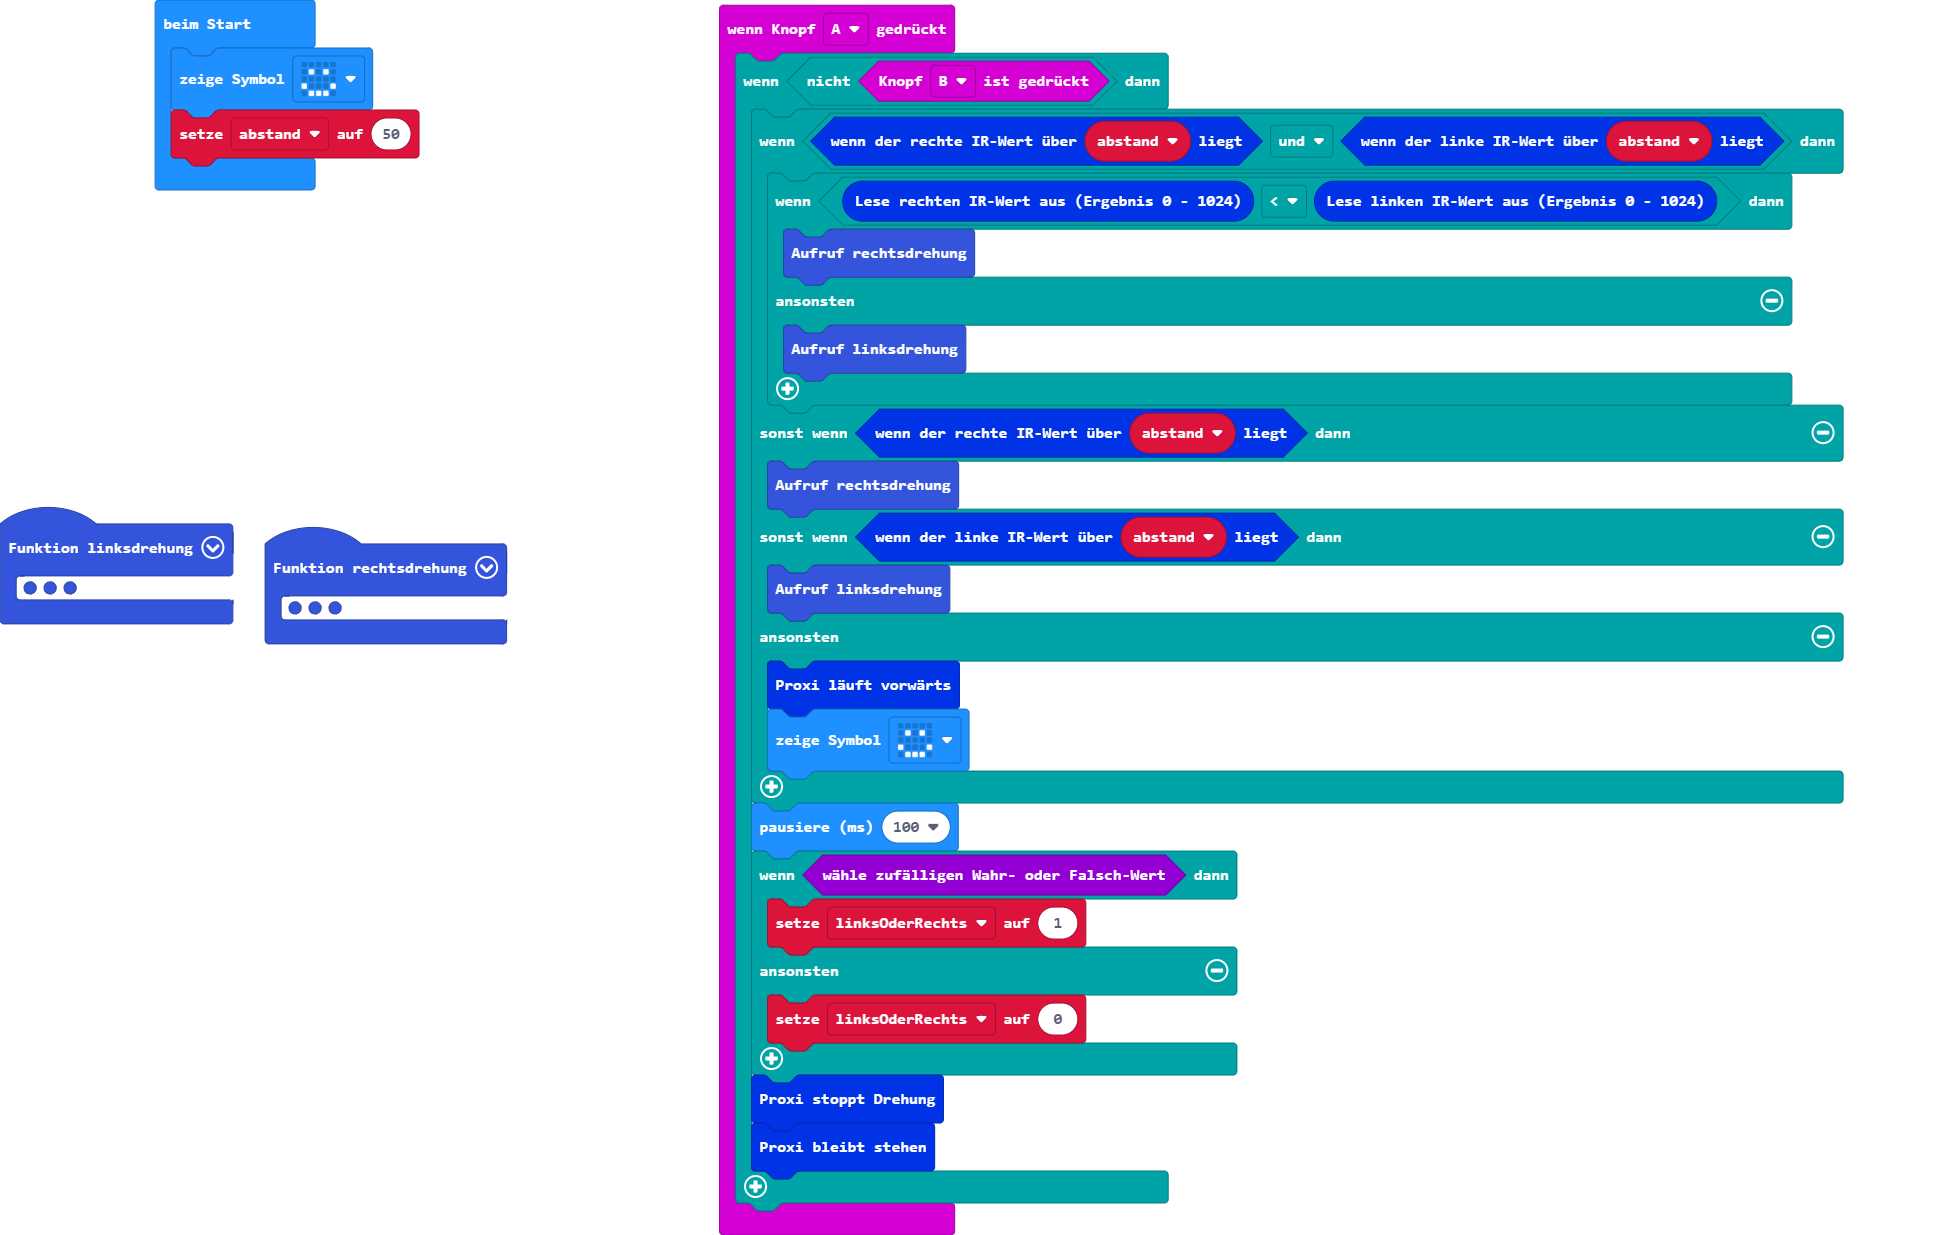
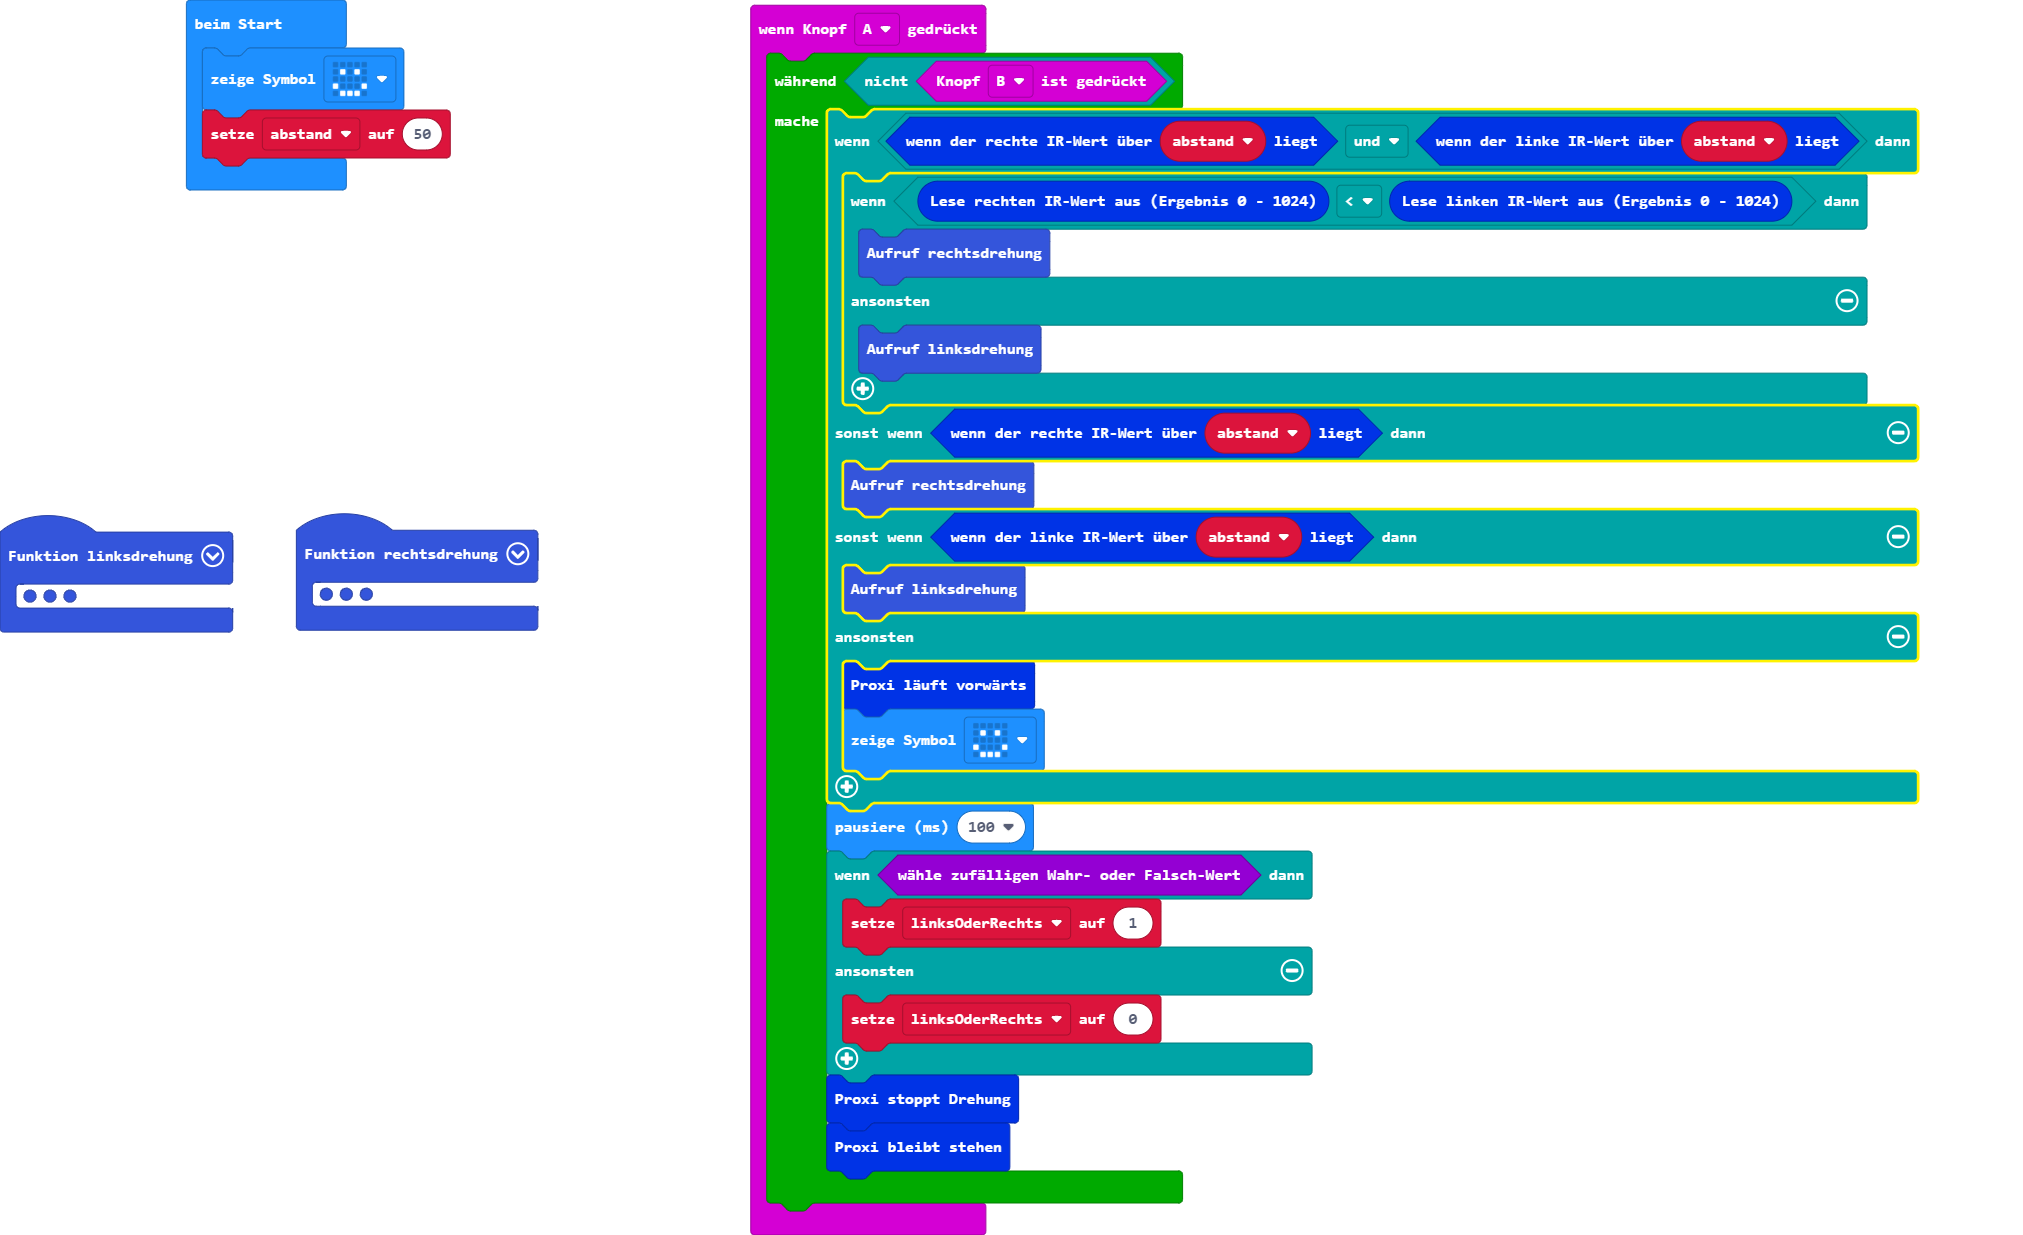
Aktualisiere main.blocks, main.ts

diff --git a/main.ts b/main.ts
@@ -18,7 +18,7 @@ function linksdrehung () {
     basic.pause(500)
 }
 input.onButtonPressed(Button.A, function () {
-    if (!(input.buttonIsPressed(Button.B))) {
+    while (!(input.buttonIsPressed(Button.B))) {
         if (Proxi.RBlock(abstand) && Proxi.LBlock(abstand)) {
             if (Proxi.Lese_RBlock() < Proxi.Lese_LBlock()) {
                 rechtsdrehung()
